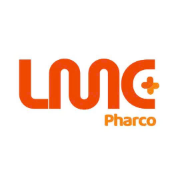
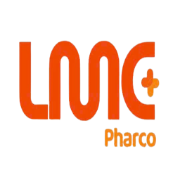
update

Changed region(s): [[0.0833, 0.2222, 0.8889, 0.8333]]

diff --git a/src/app/contact/page.tsx b/src/app/contact/page.tsx
@@ -13,7 +13,8 @@ import type { CreateMessageDto } from '@/types/api';
 
 export default function ContactPage() {
   const [name, setName] = useState('');
-  const [email, setEmail] = useState('');
+  const [address, setAddress] = useState('');
+  const [identity, setIdentity] = useState('');
   const [phone, setPhone] = useState('');
   const [subject, setSubject] = useState('');
   const [message, setMessage] = useState('');
@@ -27,21 +28,24 @@ export default function ContactPage() {
     setIsSubmitting(true);
 
     try {
-      const messageData: CreateMessageDto = {
+      const messageData: CreateMessageDto & { address?: string; identity?: string } = {
         full_name: name,
-        email: email,
+        email: '',
         phone_number: phone || undefined,
         subject: subject,
-        message: message
+        message: message,
+        address: address || undefined,
+        identity: identity || undefined,
       };
 
       const response = await messageService.createMessage(messageData);
-      
+
       if (response.success) {
         console.log('Message sent successfully:', response.data);
         setSuccess(true);
         setName('');
-        setEmail('');
+        setAddress('');
+        setIdentity('');
         setPhone('');
         setSubject('');
         setMessage('');
@@ -51,7 +55,7 @@ export default function ContactPage() {
     } catch (error) {
       console.error('Error sending message:', error);
       setError(
-        error instanceof Error 
+        error instanceof Error
           ? `Có lỗi xảy ra: ${error.message}`
           : 'Có lỗi xảy ra khi gửi tin nhắn. Vui lòng thử lại.'
       );
@@ -63,7 +67,7 @@ export default function ContactPage() {
   return (
     <div className="min-h-screen bg-gray-50">
       <Navigation />
-      
+
       <div className="max-w-7xl mx-auto px-4 sm:px-6 lg:px-8 py-8">
         <div className="text-center mb-12">
           <h1 className="text-3xl font-bold text-gray-900 mb-4">Liên Hệ Với Chúng Tôi</h1>
@@ -85,7 +89,7 @@ export default function ContactPage() {
                   <div>
                     <h3 className="font-semibold text-gray-900">Địa Chỉ</h3>
                     <p className="text-gray-600">
-                       Số 1014 Phạm Văn Đồng, Phường Hiệp Bình, Thành phố Hồ Chí Minh
+                      Số 1014 Phạm Văn Đồng, Phường Hiệp Bình, Thành phố Hồ Chí Minh
                     </p>
                   </div>
                 </div>
@@ -143,9 +147,11 @@ export default function ContactPage() {
                     </Alert>
                   )}
 
-                  <div className="grid grid-cols-1 md:grid-cols-2 gap-6">
+
+
+                  <div className="grid grid-cols-1">
                     <div>
-                      <Label htmlFor="name">Họ và Tên *</Label>
+                      <Label htmlFor="name">Tên nhà thuốc / phòng khám / cửa hàng *</Label>
                       <Input
                         id="name"
                         type="text"
@@ -155,20 +161,19 @@ export default function ContactPage() {
                         placeholder="Nhập họ và tên của bạn"
                       />
                     </div>
-                    <div>
-                      <Label htmlFor="email">Email *</Label>
-                      <Input
-                        id="email"
-                        type="email"
-                        value={email}
-                        onChange={(e) => setEmail(e.target.value)}
-                        required
-                        placeholder="Nhập địa chỉ email"
-                      />
-                    </div>
                   </div>
 
                   <div className="grid grid-cols-1 md:grid-cols-2 gap-6">
+                    <div>
+                      <Label htmlFor="identity">MST/CCCD</Label>
+                      <Input
+                        id="identity"
+                        type="text"
+                        value={identity}
+                        onChange={(e) => setIdentity(e.target.value)}
+                        placeholder="Nhập mã số định danh hoặc CMND/CCCD"
+                      />
+                    </div>
                     <div>
                       <Label htmlFor="phone">Số Điện Thoại</Label>
                       <Input
@@ -179,18 +184,32 @@ export default function ContactPage() {
                         placeholder="Nhập số điện thoại"
                       />
                     </div>
+                  </div>
+                  <div className="grid grid-cols-1">
                     <div>
-                      <Label htmlFor="subject">Chủ Đề *</Label>
-                      <Input
-                        id="subject"
-                        type="text"
-                        value={subject}
-                        onChange={(e) => setSubject(e.target.value)}
-                        required
-                        placeholder="Nhập chủ đề tin nhắn"
+                      <Label htmlFor="address">Địa chỉ</Label>
+                      <textarea
+                        id="address"
+                        value={address}
+                        onChange={(e: React.ChangeEvent<HTMLTextAreaElement>) => setAddress(e.target.value)}
+                        rows={3}
+                        placeholder="Nhập địa chỉ liên hệ"
+                        className="flex w-full rounded-md border border-gray-300 bg-white px-3 py-2 text-sm placeholder:text-gray-500 focus-visible:outline-none focus-visible:ring-2 focus-visible:ring-blue-500 focus-visible:ring-offset-2 disabled:cursor-not-allowed disabled:opacity-50 resize-none"
                       />
                     </div>
                   </div>
+                  <div>
+                    <Label htmlFor="subject">Chủ Đề *</Label>
+                    <Input
+                      id="subject"
+                      type="text"
+                      value={subject}
+                      onChange={(e) => setSubject(e.target.value)}
+                      required
+                      placeholder="Nhập chủ đề tin nhắn"
+                    />
+                  </div>
+
 
                   <div>
                     <Label htmlFor="message">Tin Nhắn *</Label>

diff --git a/src/components/navigation.tsx b/src/components/navigation.tsx
@@ -48,7 +48,7 @@ export function Navigation() {
               {/* Mobile Logo - smaller */}
               <div className="relative h-8 w-24 sm:hidden">
                 <Image
-                  src="/logo.jpg"
+                  src="/logo.png"
                   alt="LMC Pharmacy Logo"
                   fill
                   className="object-contain rounded-md"
@@ -58,7 +58,7 @@ export function Navigation() {
               {/* Desktop Logo - bigger */}
               <div className="relative h-12 w-40 hidden sm:block">
                 <Image
-                  src="/logo.jpg"
+                  src="/logo.png"
                   alt="LMC Pharmacy Logo"
                   fill
                   className="object-contain rounded-md"
@@ -141,9 +141,6 @@ export function Navigation() {
                 <div className="flex items-center space-x-2">
                   <Button variant="ghost" size="sm" asChild>
                     <Link href="/login">Đăng Nhập</Link>
-                  </Button>
-                  <Button size="sm" asChild>
-                    <Link href="/register">Đăng Ký</Link>
                   </Button>
                 </div>
               )}

diff --git a/src/app/login/page.tsx b/src/app/login/page.tsx
@@ -46,10 +46,14 @@ export default function LoginPage() {
       <div className="max-w-md w-full space-y-8">
         {/* Logo and Title */}
         <div className="text-center">
-          <Link href="/" className="flex items-center justify-center space-x-2 mb-4">
-            <Heart className="h-10 w-10 text-blue-600" />
-            <span className="text-2xl font-bold text-gray-900">LMC Pharmacy</span>
-          </Link>
+            <Link href="/" className="flex flex-col items-center justify-center mb-4">
+              <img
+              src="/logo.png"
+              alt="LMC Pharmacy Logo"
+              className="h-12 w-12 sm:h-14 sm:w-14 md:h-16 md:w-16"
+              />
+              <span className="text-2xl font-bold text-gray-900">LMC Pharco</span>
+            </Link>
           <h2 className="text-xl text-gray-600">Chào mừng bạn trở lại</h2>
         </div>
 
